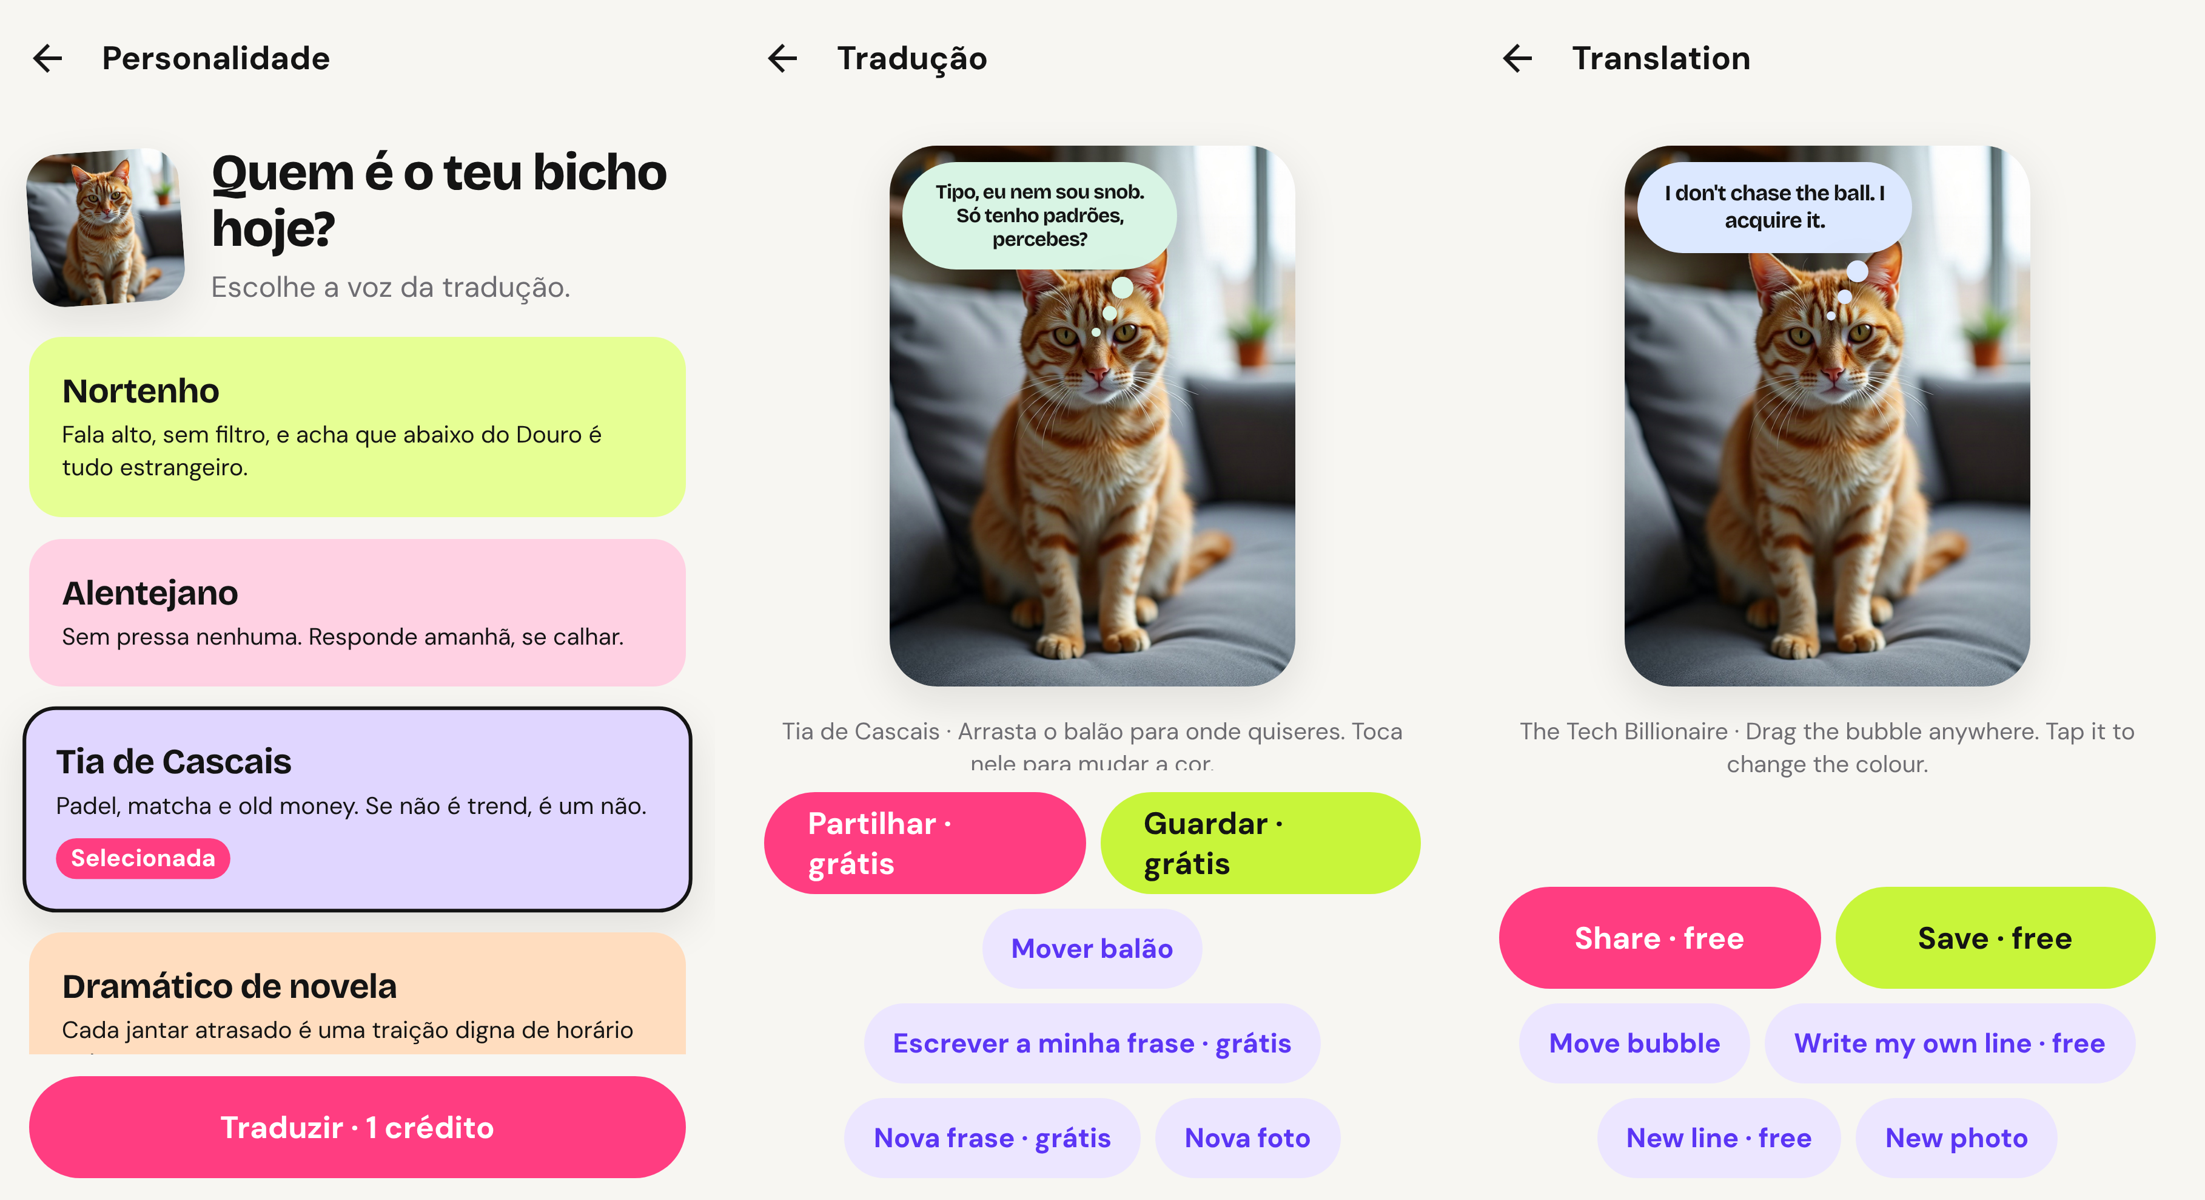
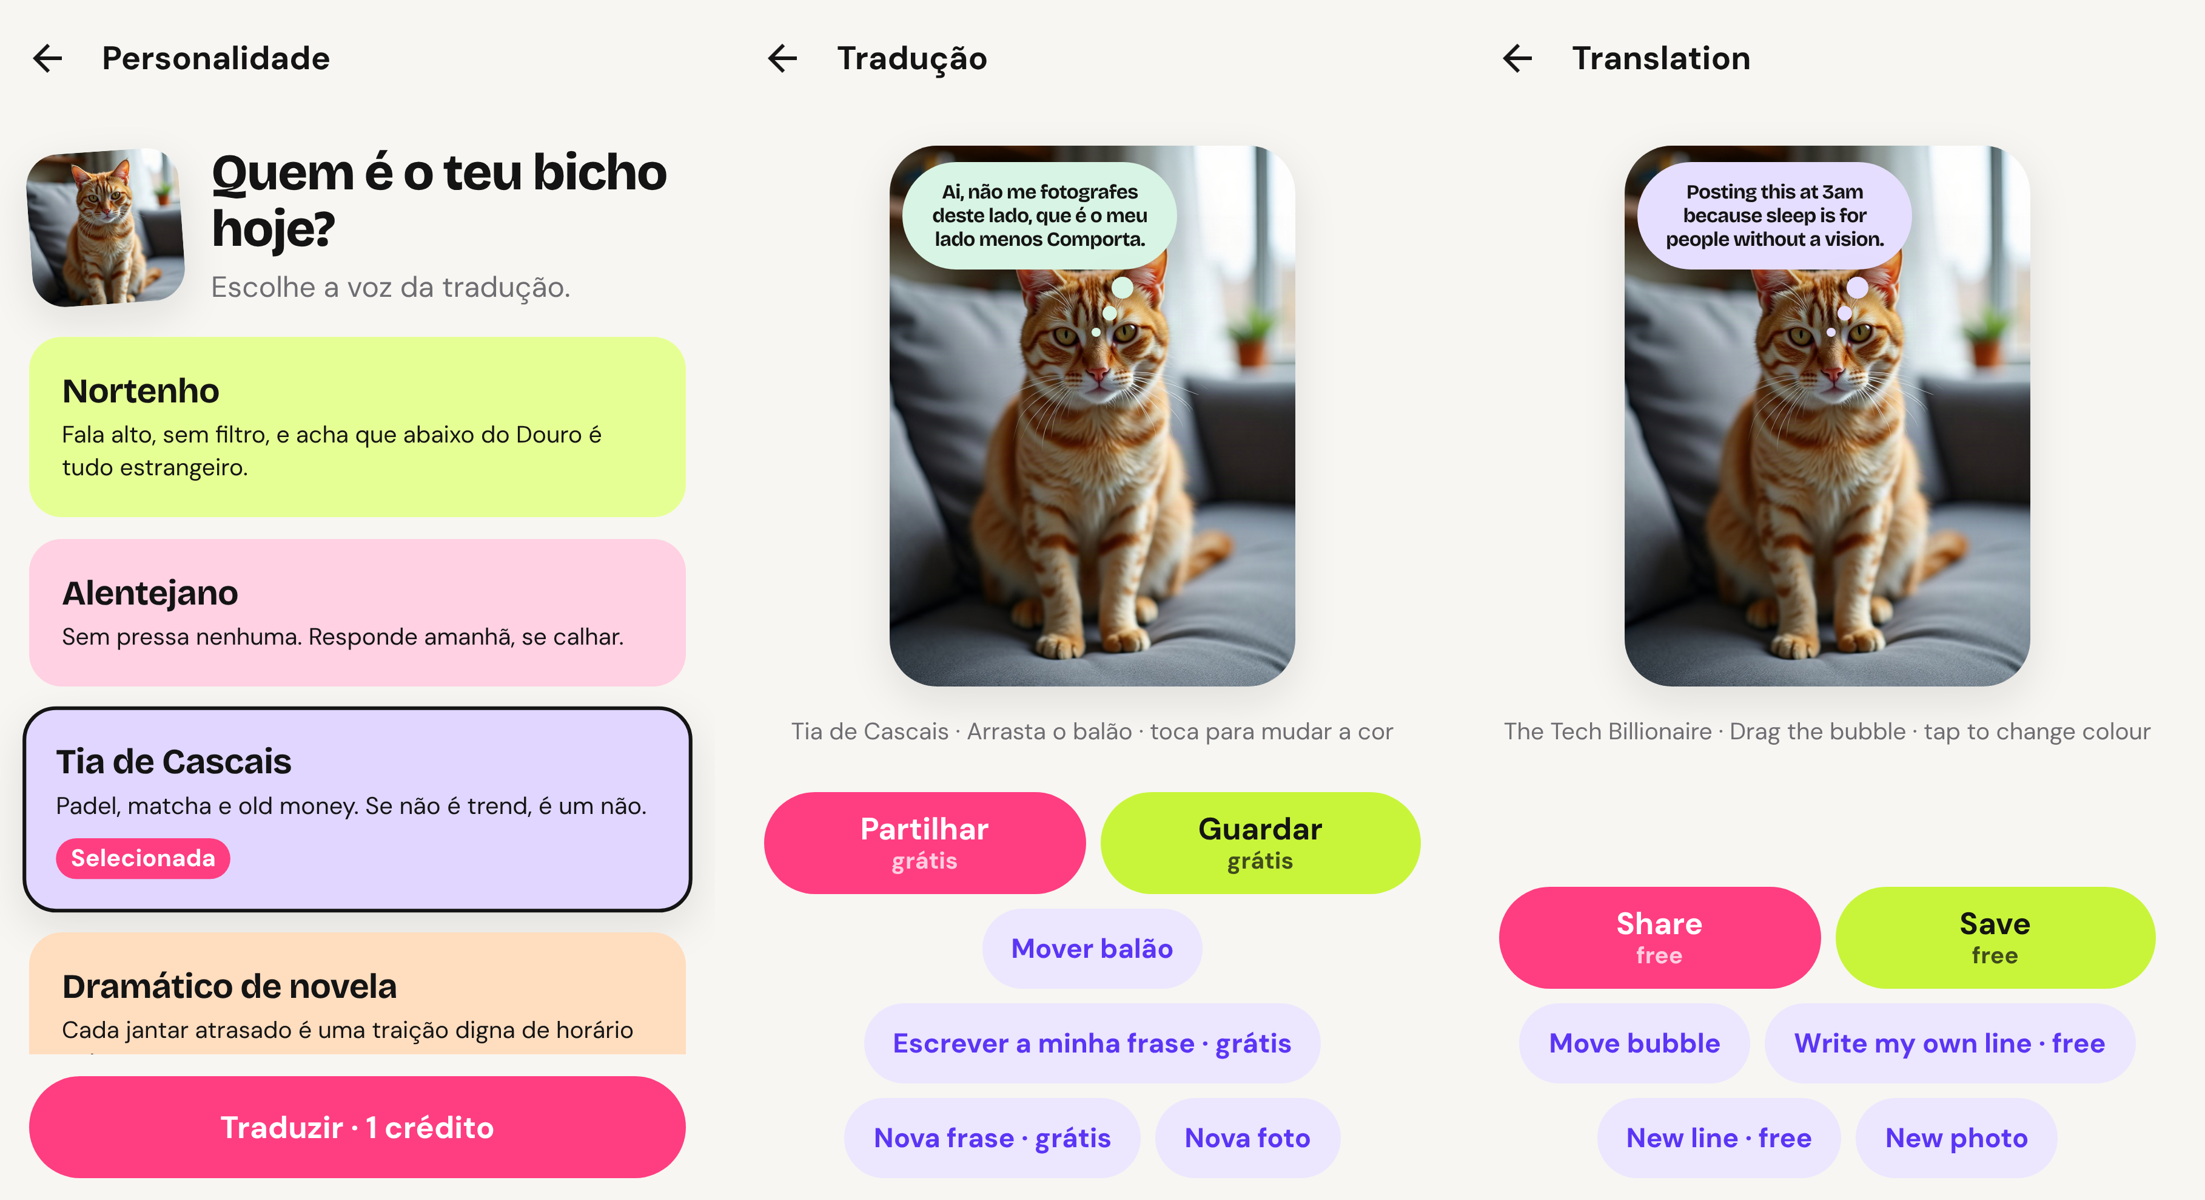
fix(design): "grátis" numa linha pequena nos botões Partilhar e Guardar, e dica mais curta
Claude-Session: https://claude.ai/code/session_01N83rQRxUsZKxynSdEqwWBY

diff --git a/mobile/src/design/Button.tsx b/mobile/src/design/Button.tsx
@@ -14,6 +14,8 @@ const palette: Record<Variant, { bg: string; pressed: string; text: string }> = 
 
 type Props = {
   label: string;
+  /** Small second line under the label, e.g. "grátis". */
+  note?: string;
   onPress: () => void;
   variant?: Variant;
   disabled?: boolean;
@@ -22,7 +24,7 @@ type Props = {
   testID?: string;
 };
 
-export function Button({ label, onPress, variant = 'primary', disabled, loading, hint, testID }: Props) {
+export function Button({ label, note, onPress, variant = 'primary', disabled, loading, hint, testID }: Props) {
   const inactive = disabled || loading;
   const small = variant === 'tertiary';
   const c = palette[variant];
@@ -31,7 +33,7 @@ export function Button({ label, onPress, variant = 'primary', disabled, loading,
     <Pressable
       testID={testID}
       accessibilityRole="button"
-      accessibilityLabel={label}
+      accessibilityLabel={note ? `${label}, ${note}` : label}
       accessibilityHint={hint}
       accessibilityState={{ disabled: !!inactive, busy: !!loading }}
       disabled={inactive}
@@ -45,9 +47,16 @@ export function Button({ label, onPress, variant = 'primary', disabled, loading,
       ]}>
       <View style={styles.content}>
         {loading ? <ActivityIndicator color={c.text} /> : null}
-        <AppText variant={small ? 'buttonSmall' : 'button'} color={c.text}>
-          {label}
-        </AppText>
+        <View style={styles.labels}>
+          <AppText variant={small ? 'buttonSmall' : 'button'} color={c.text} align="center" numberOfLines={1}>
+            {label}
+          </AppText>
+          {note ? (
+            <AppText variant="smallStrong" color={c.text} align="center" style={styles.note}>
+              {note}
+            </AppText>
+          ) : null}
+        </View>
       </View>
     </Pressable>
   );
@@ -71,6 +80,8 @@ const styles = StyleSheet.create({
   inactive: {
     opacity: 0.4,
   },
+  labels: { alignItems: 'center' },
+  note: { opacity: 0.75, marginTop: -2 },
   content: {
     flexDirection: 'row',
     alignItems: 'center',

diff --git a/mobile/src/i18n/locales/pt-PT.ts b/mobile/src/i18n/locales/pt-PT.ts
@@ -50,8 +50,9 @@ const ptPT = {
     notAPet: 'Não encontrámos nenhum gato ou cão nesta foto. O crédito foi devolvido.',
     failedRefunded: 'Não conseguimos traduzir esta foto. O crédito foi devolvido.',
     slow: 'Está a demorar mais do que o normal. A tradução aparece no teu histórico quando ficar pronta.',
-    share: 'Partilhar · grátis',
-    save: 'Guardar · grátis',
+    share: 'Partilhar',
+    free: 'grátis',
+    save: 'Guardar',
     saved: 'Guardada',
     moveBalloon: 'Mover balão',
     retryFree: 'Nova frase · grátis',
@@ -61,7 +62,7 @@ const ptPT = {
     useAi: 'Voltar à frase da IA',
     charsLeft_one: '{{count}} carácter restante',
     charsLeft_other: '{{count}} caracteres restantes',
-    dragHint: 'Arrasta o balão para onde quiseres. Toca nele para mudar a cor.',
+    dragHint: 'Arrasta o balão · toca para mudar a cor',
     tryAgain: 'Tentar outra vez',
     newPhoto: 'Nova foto',
     errorTitle: 'Algo correu mal',

diff --git a/mobile/src/i18n/locales/en.ts b/mobile/src/i18n/locales/en.ts
@@ -52,8 +52,9 @@ const en: Strings = {
     notAPet: "We couldn't find a cat or dog in this photo. Your credit was refunded.",
     failedRefunded: "We couldn't translate this photo. Your credit was refunded.",
     slow: 'This is taking longer than usual. The translation will show up in your history when it is ready.',
-    share: 'Share · free',
-    save: 'Save · free',
+    share: 'Share',
+    free: 'free',
+    save: 'Save',
     saved: 'Saved',
     moveBalloon: 'Move bubble',
     retryFree: 'New line · free',
@@ -63,7 +64,7 @@ const en: Strings = {
     useAi: 'Back to the AI line',
     charsLeft_one: '{{count}} character left',
     charsLeft_other: '{{count}} characters left',
-    dragHint: 'Drag the bubble anywhere. Tap it to change the colour.',
+    dragHint: 'Drag the bubble · tap to change colour',
     tryAgain: 'Try again',
     newPhoto: 'New photo',
     errorTitle: 'Something went wrong',

diff --git a/mobile/src/app/result.tsx b/mobile/src/app/result.tsx
@@ -241,13 +241,14 @@ export default function ResultScreen() {
     <>
       <View style={styles.row}>
         <View style={styles.flex}>
-          <Button testID="share" label={t('result.share')} onPress={share} loading={busy === 'share'} />
+          <Button testID="share" label={t('result.share')} note={t('result.free')} onPress={share} loading={busy === 'share'} />
         </View>
         <View style={styles.flex}>
           <Button
             testID="save"
             variant="secondary"
             label={saved ? t('result.saved') : t('result.save')}
+            note={t('result.free')}
             onPress={save}
             loading={busy === 'save'}
             disabled={saved}
